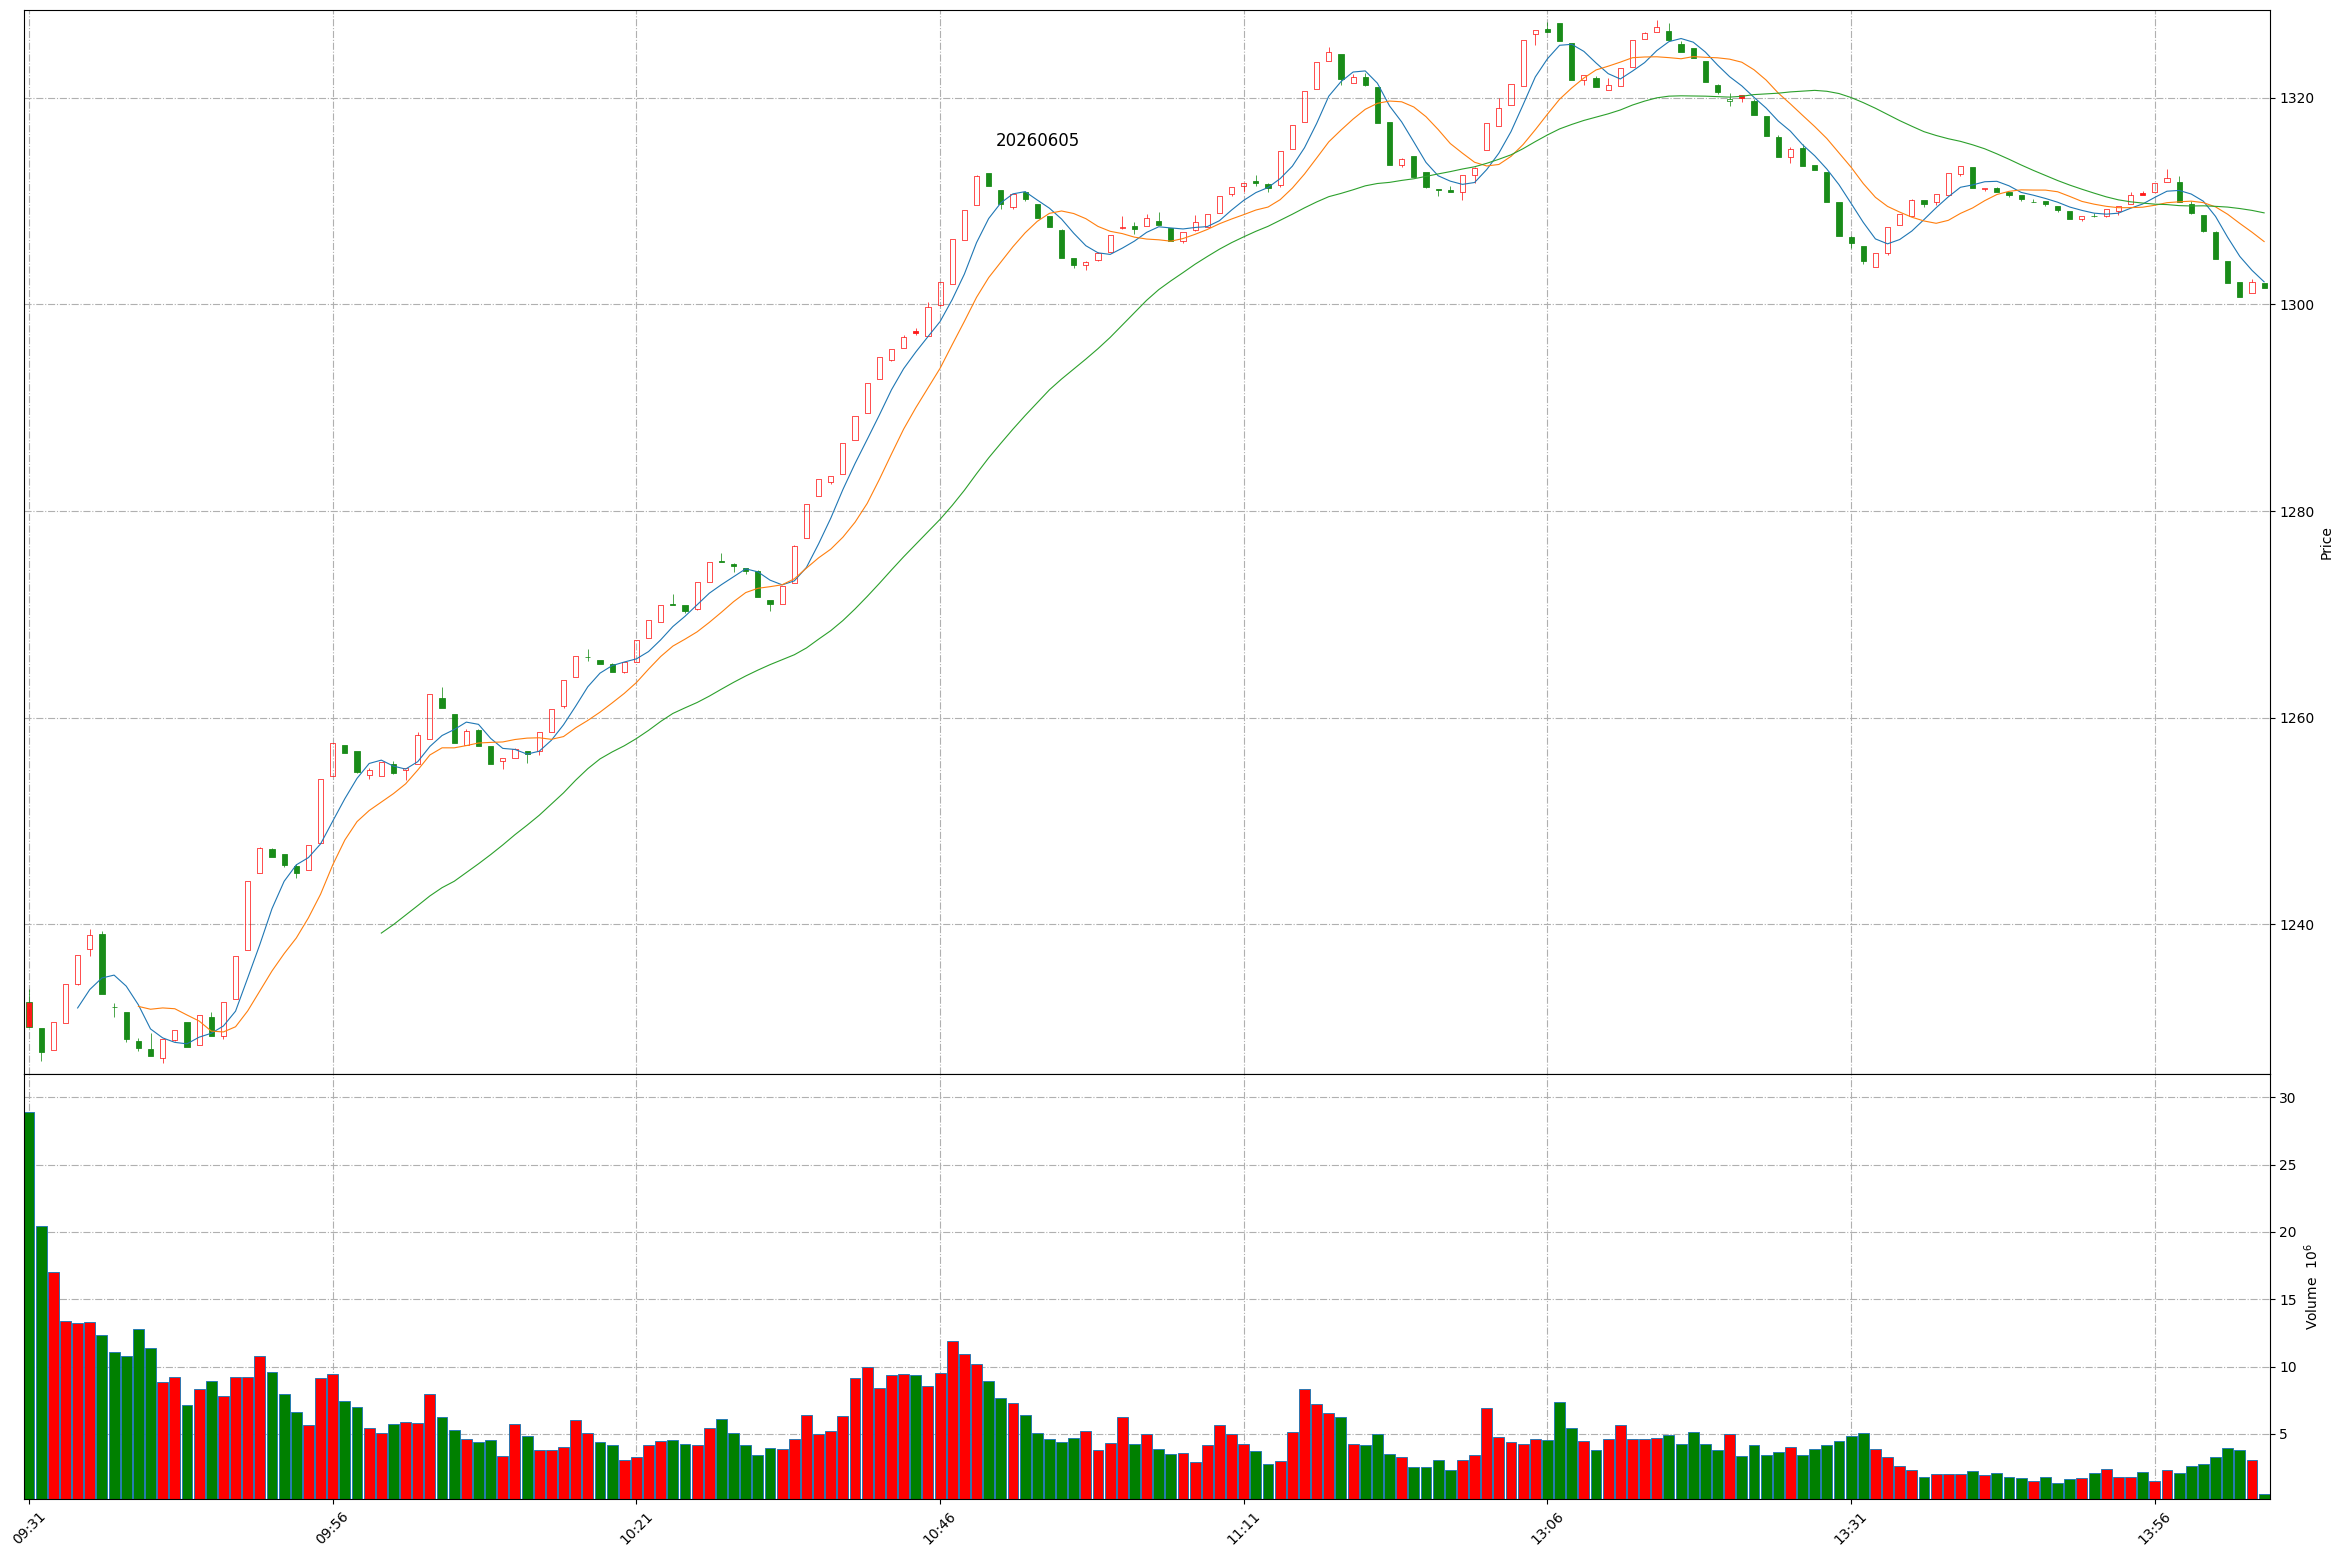
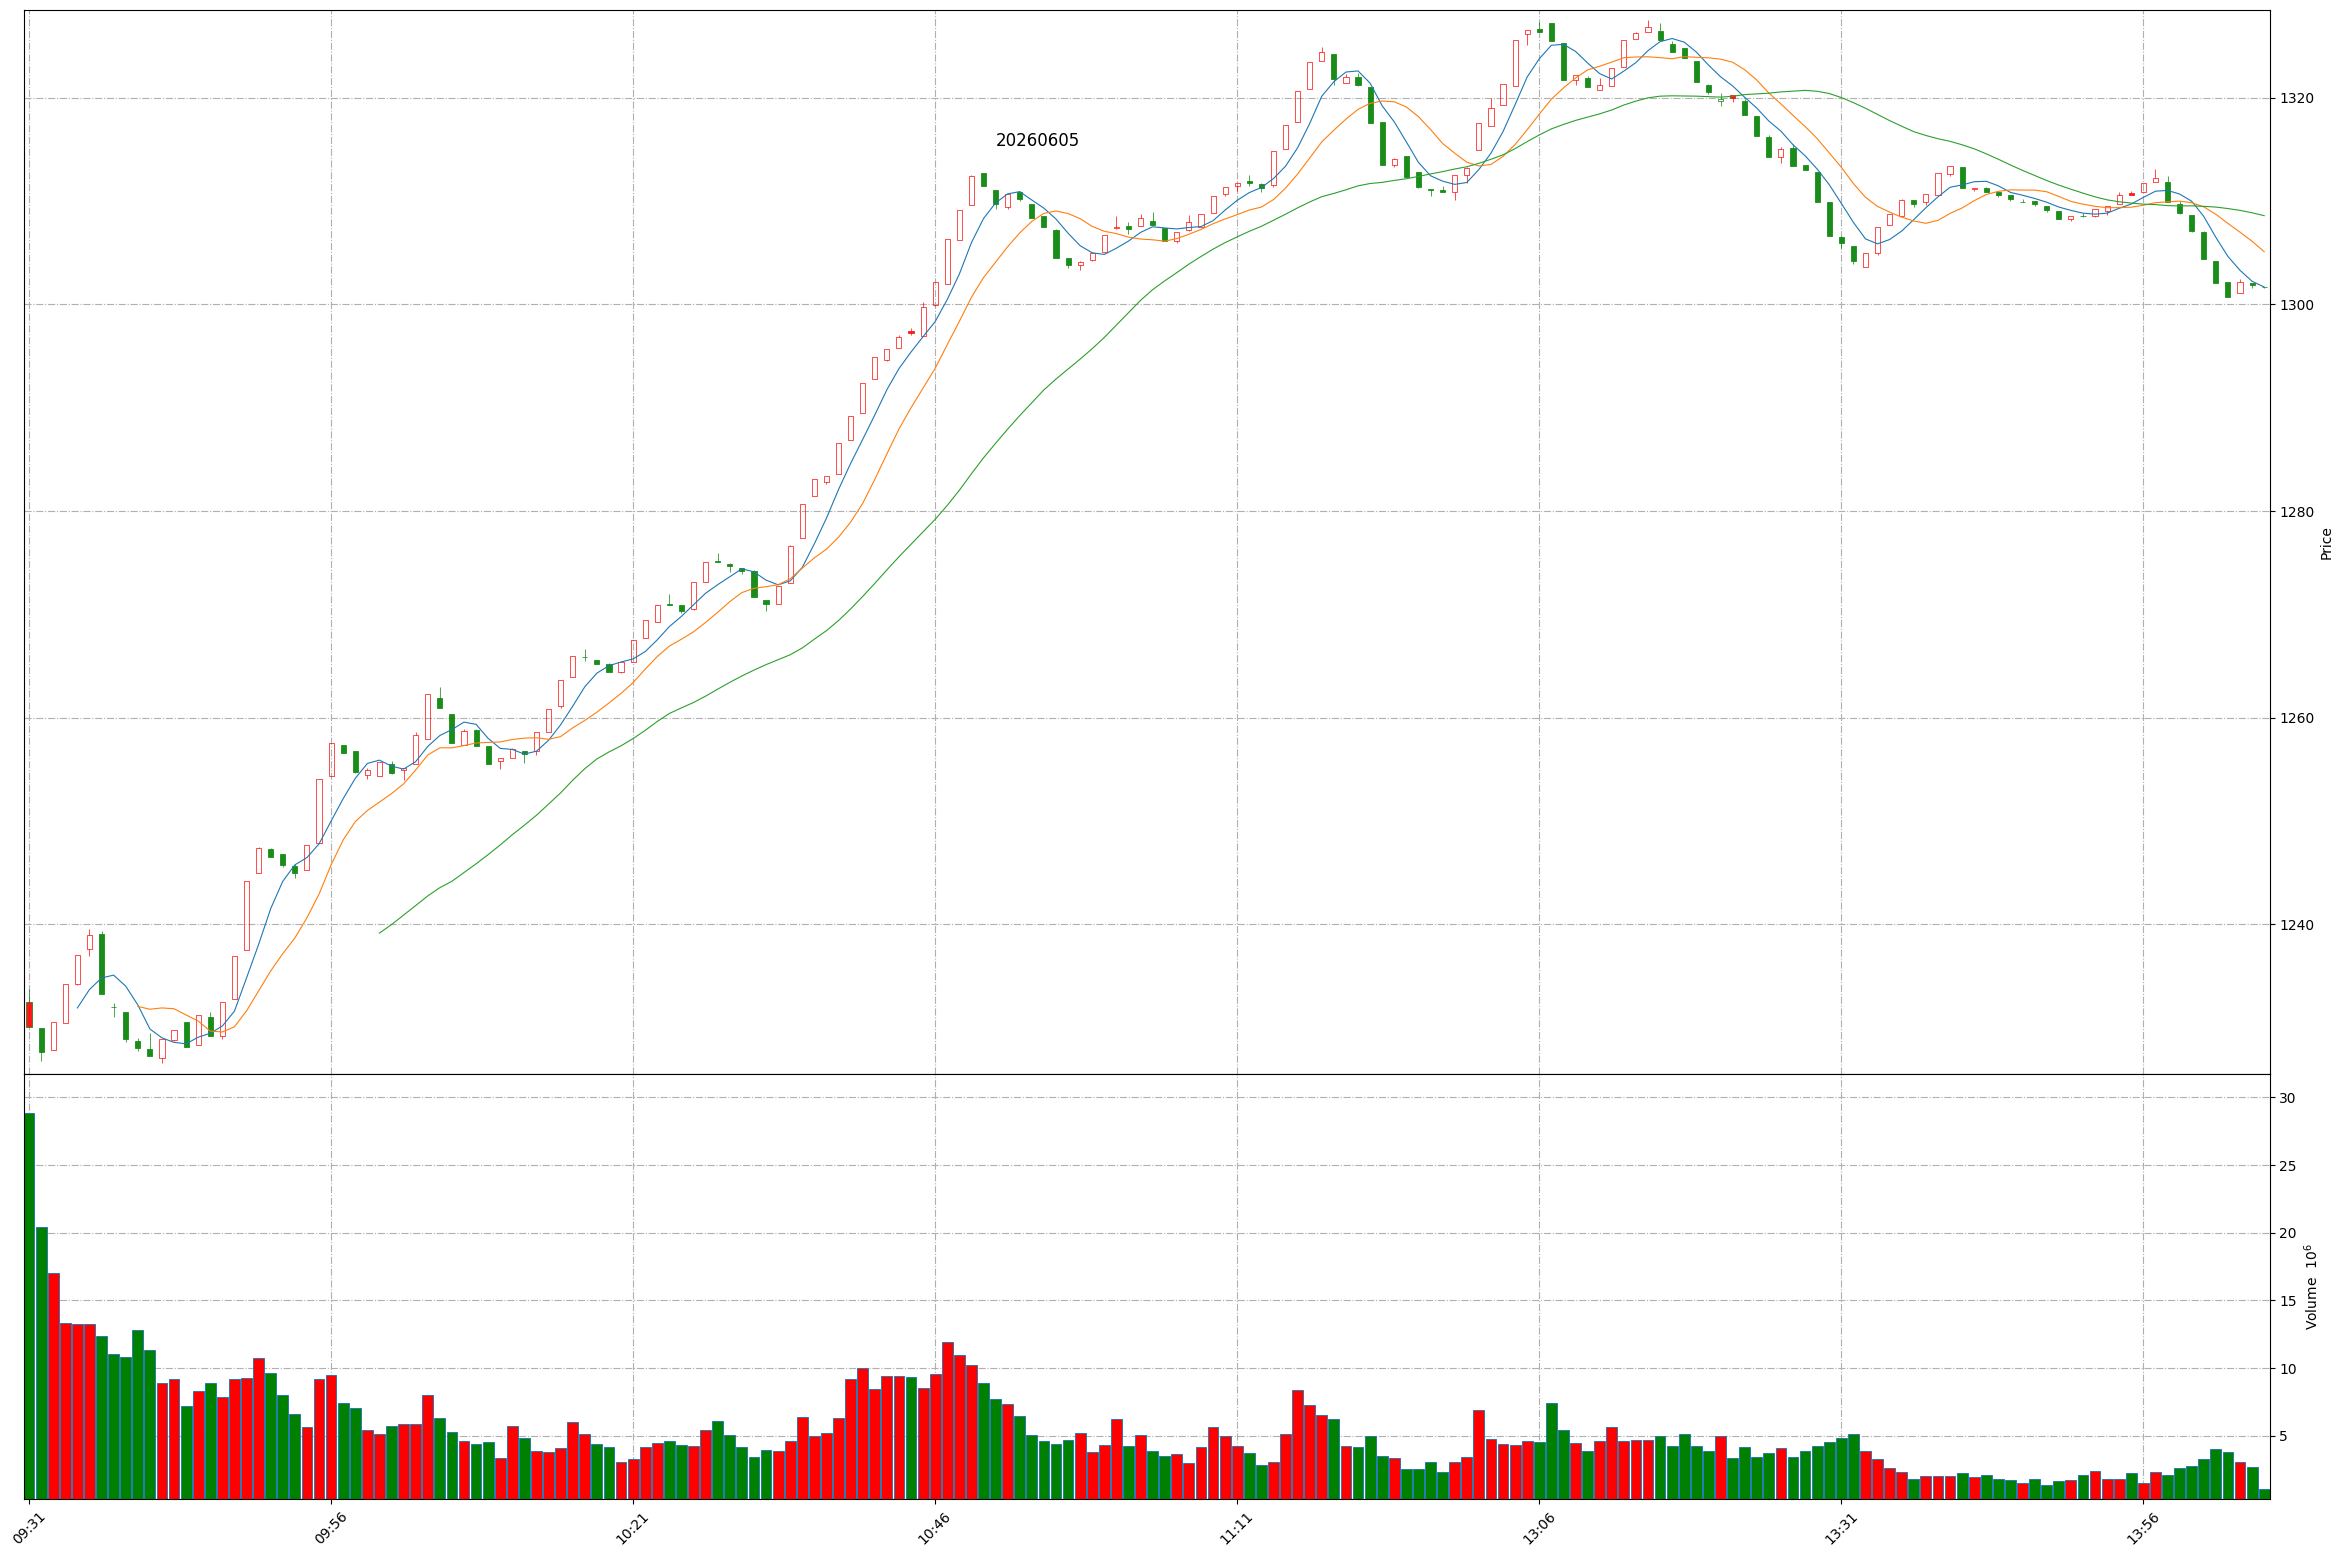
Github action update at 2026-06-05 14:05:49.

diff --git a/README.md b/README.md
@@ -1,11 +1,11 @@
 
 # Daily-A-share-market-quotes 每日 A 股指数（5min 更新）- 20260605
 
-### 上证指数 20260605 14:4
+### 上证指数 20260605 14:5
 ![](./fig/2026/6/20260605-sh000001.png)
 
-### 深证成指 20260605 14:4
+### 深证成指 20260605 14:5
 ![](./fig/2026/6/20260605-sz399001.png)
 
-### 北证50 20260605 14:4
+### 北证50 20260605 14:5
 ![](./fig/2026/6/20260605-bj899050.png)
